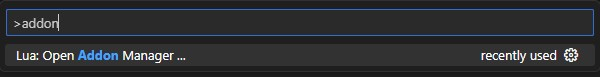
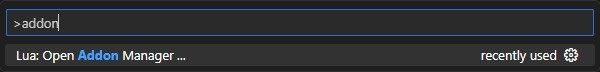
Update screenshots/gifs + more clearly differentiate installation instructions

diff --git a/README.md b/README.md
@@ -6,29 +6,57 @@
 [![Test Coverage Status](https://coveralls.io/repos/github/luttje/glua-api-snippets/badge.svg?branch=main)](https://coveralls.io/github/luttje/glua-api-snippets?branch=main)
 [![All Contributors](https://img.shields.io/github/all-contributors/luttje/glua-api-snippets?color=ee8449&style=flat-square)](#contributors)
 
-This repository scrapes the Garry's Mod Lua API and generates snippets that will help provide autocompletion for Lua in editors like VSCode, NeoVim and more.
-
-## 🔨 Usage
-
-1. Install **Lua Language Server:** for your editor of choice:
-    * [Visual Studio Code Extension](https://marketplace.visualstudio.com/items?itemName=sumneko.lua)
-    * [NeoVim Configuration](https://github.com/LuaLS/lua-language-server#neovim)
-  
-2. Open the **Lua Language Server Addon Manager** with the key combination `Ctrl+Shift+P` (or `Cmd+Shift+P` on macOS) and search for *Addon*, then select **Lua: Open Addon Manager ...**:
-![VSCode editor command suggestion showing: Lua: Open Addon Manager ...](docs/lls-addon-manager-command.jpg)
-
-3. Search for the **Garry's Mod** addon and **Enable** it:
-![Lua Language Server Addon Manager showing the Garry's Mod addon](docs/lls-addon-manager-gmod.jpg)
-
-4. You will now get autocompletion for the Garry's Mod Lua API in your Garry's Mod projects.
+This repository scrapes the Garry's Mod Lua API and generates annotated code snippets that will help provide autocompletion for Lua in editors like VSCode, NeoVim and more.
 
 <div align="center">
 
-  ![VSCode showing autocomplete options from the GLua API while typing code with EmmyLua](docs/demo-autocompletion.gif)
+![VSCode showing autocomplete options from the GLua API while typing code with EmmyLua](docs/demo-autocompletion.gif)
 
 </div>
 
-*Alternatively download the latest release and include or symlink it into your workspace. Get the release from [🔗 the releases page](https://github.com/luttje/glua-api-snippets/releases) it's named something like `YYYY-MM-DD_HH-MM-SS.lua.zip` .*
+## 🔨 Usage
+
+To get autocompletion for the Garry's Mod Lua API in your Garry's Mod projects, you need to install the Lua Language Server and our GLua API Definitions.
+
+**First** install **Lua Language Server (LuaLS):** for your editor of choice:
+
+  * [Visual Studio Code Extension](https://marketplace.visualstudio.com/items?itemName=sumneko.lua)
+  
+  * [NeoVim Configuration](https://github.com/LuaLS/lua-language-server#neovim)
+  
+**Then** download/install our GLua API Definitions for the Lua Language Server. This process varies depending on your editor:
+
+  * [Visual Studio Code](#visual-studio-code)
+  
+  * [NeoVim](#neovim)
+
+### Visual Studio Code
+
+Installing our GLua API Definitions for the Lua Language Server in Visual Studio Code is easy thanks to the Lua Language Server Addon Manager built into the VSCode extension.
+
+1. In Visual Studio Code open the Command Palette with the key combination `Ctrl+Shift+P` (or `Cmd+Shift+P` on macOS)
+
+2. Search for *Addon*, then select **`Lua: Open Addon Manager ...`**:
+
+<div align="center">
+
+![VSCode editor command suggestion showing: Lua: Open Addon Manager ...](docs/lls-addon-manager-command.jpg)
+
+</div>
+    
+3. Search for the **Garry's Mod** addon and **`Enable`** it:
+
+<div align="center">
+
+![Lua Language Server Addon Manager showing the Garry's Mod addon](docs/lls-addon-manager-gmod.jpg)
+
+</div>
+
+### NeoVim
+
+1. Clone (or download and unzip) [our `lua-language-server-addon` branch](https://github.com/luttje/glua-api-snippets/tree/lua-language-server-addon)
+
+2. Follow [the instructions in the Lua Language Server documentation](https://luals.github.io/wiki/addons/#installing-addons) and point `workspace.userThirdParty` to where you placed the `lua-language-server-addon` branch
 
 ## 📅 Automatically up-to-date
 
@@ -40,10 +68,10 @@ A workflow will automatically scrape the latest Garry's Mod Lua API from [the Ga
 >
 > The Lua Language Server addon might not be immediately updated to align with the definitions in this repository. This delay occurs because we must submit a pull request (PR) to the [Lua Language Server Addons repository (`LuaLS/LLS-Addons`)](https://github.com/LuaLS/LLS-Addons) to update the addon. Subsequently, a maintainer of the `LuaLS/LLS-Addons` repository needs to find time to review and merge the PR.
 >
-> Our schedule for updating our addon with `LuaLS/LLS-Addons` is set for the first day of each even month, specifically: February, April, June, August, October, and December.
+> Our schedule for updating our addon with `LuaLS/LLS-Addons` is set for the first day of February, April, June, August, October, and December.
 > This schedule is subject to change based on the availability of maintainers and the urgency of the update.
 >
-> If you urgently require the most current definitions from the addon, you can expedite the process by submitting a PR to update it. Instructions for doing so can be found in [the `CONTRIBUTING.md` file](https://github.com/luttje/glua-api-snippets/blob/main/CONTRIBUTING.md#updating-the-addon-for-lua-language-server).
+> If you urgently require the most current definitions from the addon, you can expedite the process by submitting a PR to update it yourself. Instructions for doing so can be found in [the `CONTRIBUTING.md` file](https://github.com/luttje/glua-api-snippets/blob/main/CONTRIBUTING.md#updating-the-addon-for-lua-language-server).
 
 ## 🤖 Advanced Usage
 
@@ -63,7 +91,15 @@ This project uses [Jest](https://jestjs.io/) to automate testing. You can run th
 
 ### API as JSON
 
-The API is also available as JSON. You can find it with the Lua API package [on the releases page](https://github.com/luttje/glua-api-snippets/releases). It is named something like `YYYY-MM-DD_HH-MM-SS.json.zip`.
+The API is also available as JSON. You can find it with the Lua API package on [🔗 the releases page](https://github.com/luttje/glua-api-snippets/releases). It is named something like `YYYY-MM-DD_HH-MM-SS.json.zip`.
+
+### Manual Installation
+
+If you cannot or do not want to use Lua Language Server:
+
+1. Download and unzip the latest release from [🔗 the releases page](https://github.com/luttje/glua-api-snippets/releases), it's named something like `YYYY-MM-DD_HH-MM-SS.lua.zip`
+
+2. Include or symlink the unzipped directory into your workspace
 
 ## Contributors
 
